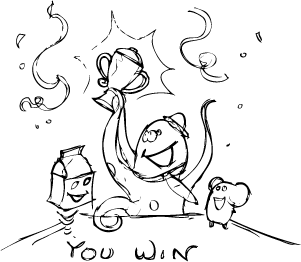
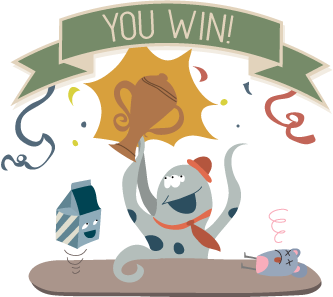
Implements results (closes #424 and #432)
This implements the final results illustrations and display logic for
both the author and player.

diff --git a/static/test/index.html b/static/test/index.html
@@ -959,18 +959,28 @@
               <div class="cardstories_envelope cardstories_envelope_3"></div>
               <div class="cardstories_envelope cardstories_envelope_4"></div>
               <div class="cardstories_envelope cardstories_envelope_5"></div>
-              <div class="cardstories_results">
-                <img class="cardstories_won" src="../css/images/author_won.png" alt="" />
+              <div class="cardstories_results author">
+                <img class="cardstories_won_1" src="../css/images/author_won.png" alt="" />
                 <img class="cardstories_lost_1" src="../css/images/author_lost_1.png" alt="" />
                 <img class="cardstories_lost_2" src="../css/images/author_lost_2.png" alt="" />
-                <p class="cardstories_won">You confused some people but not everyone.</p>
-                <p class="cardstories_lost_1">You created a story that was <font style="font-weight:bold">too easy</font> to guess.  Everyone discovered your card.</p>
-                <p class="cardstories_lost_2">You created a story that was <font style="font-weight:bold">too hard</font> to guess.  Nobody discovered your card.</p>
+                <p class="cardstories_won_1">You confused some people but not everyone.</p>
+                <p class="cardstories_lost_1">You created a story that was <font style="font-weight:bold">too easy</font> to guess. <font style="font-weight:bold">Everyone discovered your card.</font></p>
+                <p class="cardstories_lost_2">You created a story that was <font style="font-weight:bold">too hard</font> to guess. <font style="font-weight:bold">Nobody discovered your card.</font></p>
                 <div class="cardstories_img_button cardstories_play_again">
-                  <img class="cardstories_btn_on" alt="" src="../css/images/invite_button_on.png" />
-                  <img class="cardstories_btn_over" alt="" src="../css/images/invite_button_on.png" />
+                  <img class="cardstories_btn_on" alt="" src="../css/images/play_again_button_on.png" />
+                  <img class="cardstories_btn_over" alt="" src="../css/images/play_again_button_over.png" />
                   <a href="javascript://"><span>PLAY AGAIN!</span></a>
                 </div>
+              </div>
+              <div class="cardstories_results player">
+                <img class="cardstories_won_1" src="../css/images/player_won_1.png" alt="" />
+                <img class="cardstories_won_2" src="../css/images/player_won_2.png" alt="" />
+                <img class="cardstories_won_3" src="../css/images/player_won_2.png" alt="" />
+                <img class="cardstories_lost_1" src="../css/images/player_lost.png" alt="" />
+                <p class="cardstories_won_1"><font style="font-weight:bold">You found the Card Story!</font> The Game Master <font style="font-weight:bold">wins</font> too, he wrote a story which was neither too easy nor too hard to guess. He confused some people, but not everyone.</p>
+                <p class="cardstories_won_2"><font style="font-weight:bold">You found the Card Story!</font> The Game Master <font style="font-weight:bold">loses</font>, since he wrote a story which was <font style="font-weight:bold">too easy</font> to guess. <font style="font-weight:bold">Everyone discovered his card.</font></p>
+                <p class="cardstories_won_3"><font style="font-weight:bold">You didn't find the Card Story,</font> but the Game Master <font style="font-weight:bold">loses</font> since he wrote a story which was <font style="font-weight:bold">too hard</font> to guess. <font style="font-weight:bold">Nobody discovered his card.</font></p>
+                <p class="cardstories_lost_1">You didn’t find the Card Story. The Game Master wins, since he wrote a story that was <font style="font-weight:bold">neither too easy nor too hard</font> to guess. He confused <font style="font-weight:bold">some people but not everyone.</font></p>
               </div>
               <div class="cardstories_sentence_box">
                 <div class="cardstories_sentence_bg_box">

diff --git a/static/index.html b/static/index.html
@@ -891,18 +891,28 @@
             <div class="cardstories_envelope cardstories_envelope_3"></div>
             <div class="cardstories_envelope cardstories_envelope_4"></div>
             <div class="cardstories_envelope cardstories_envelope_5"></div>
-            <div class="cardstories_results">
-              <img class="cardstories_won" src="css/images/author_won.png" alt="" />
+            <div class="cardstories_results author">
+              <img class="cardstories_won_1" src="css/images/author_won.png" alt="" />
               <img class="cardstories_lost_1" src="css/images/author_lost_1.png" alt="" />
               <img class="cardstories_lost_2" src="css/images/author_lost_2.png" alt="" />
-              <p class="cardstories_won">You confused some people but not everyone.</p>
-              <p class="cardstories_lost_1">You created a story that was <font style="font-weight:bold">too easy</font> to guess.  Everyone discovered your card.</p>
-              <p class="cardstories_lost_2">You created a story that was <font style="font-weight:bold">too hard</font> to guess.  Nobody discovered your card.</p>
+              <p class="cardstories_won_1">You confused some people but not everyone.</p>
+              <p class="cardstories_lost_1">You created a story that was <font style="font-weight:bold">too easy</font> to guess. <font style="font-weight:bold">Everyone discovered your card.</font></p>
+              <p class="cardstories_lost_2">You created a story that was <font style="font-weight:bold">too hard</font> to guess. <font style="font-weight:bold">Nobody discovered your card.</font></p>
               <div class="cardstories_img_button cardstories_play_again">
-                <img class="cardstories_btn_on" alt="" src="css/images/invite_button_on.png" />
-                <img class="cardstories_btn_over" alt="" src="css/images/invite_button_on.png" />
+                <img class="cardstories_btn_on" alt="" src="css/images/play_again_button_on.png" />
+                <img class="cardstories_btn_over" alt="" src="css/images/play_again_button_over.png" />
                 <a href="javascript://"><span>PLAY AGAIN!</span></a>
               </div>
+            </div>
+            <div class="cardstories_results player">
+              <img class="cardstories_won_1" src="css/images/player_won_1.png" alt="" />
+              <img class="cardstories_won_2" src="css/images/player_won_2.png" alt="" />
+              <img class="cardstories_won_3" src="css/images/player_won_2.png" alt="" />
+              <img class="cardstories_lost_1" src="css/images/player_lost.png" alt="" />
+              <p class="cardstories_won_1"><font style="font-weight:bold">You found the Card Story!</font> The Game Master <font style="font-weight:bold">wins</font> too, he wrote a story which was neither too easy nor too hard to guess. He confused some people, but not everyone.</p>
+              <p class="cardstories_won_2"><font style="font-weight:bold">You found the Card Story!</font> The Game Master <font style="font-weight:bold">loses</font>, since he wrote a story which was <font style="font-weight:bold">too easy</font> to guess. <font style="font-weight:bold">Everyone discovered his card.</font></p>
+              <p class="cardstories_won_3"><font style="font-weight:bold">You didn't find the Card Story,</font> but the Game Master <font style="font-weight:bold">loses</font> since he wrote a story which was <font style="font-weight:bold">too hard</font> to guess. <font style="font-weight:bold">Nobody discovered his card.</font></p>
+              <p class="cardstories_lost_1">You didn’t find the Card Story. The Game Master wins, since he wrote a story that was <font style="font-weight:bold">neither too easy nor too hard</font> to guess. He confused <font style="font-weight:bold">some people but not everyone.</font></p>
             </div>
             <div class="cardstories_sentence_box">
               <div class="cardstories_sentence_bg_box">

diff --git a/static/test/test.js b/static/test/test.js
@@ -1916,10 +1916,10 @@ test("complete owner lost easy", 7, function() {
     notEqual(box.css('display'), 'none', 'box is visible');
     notEqual(box.find('p.cardstories_lost_1').css('display'), 'none', 'lost 1 text is visible');
     equal(box.find('p.cardstories_lost_2').css('display'), 'none', 'lost 2 text is hidden');
-    equal(box.find('p.cardstories_won').css('display'), 'none', 'won text is hidden');
+    equal(box.find('p.cardstories_won_1').css('display'), 'none', 'won text is hidden');
     notEqual(box.find('img.cardstories_lost_1').css('display'), 'none', 'lost 1 img is visible');
     equal(box.find('img.cardstories_lost_2').css('display'), 'none', 'lost 2 img is hidden');
-    equal(box.find('img.cardstories_won').css('display'), 'none', 'won img is hidden');
+    equal(box.find('img.cardstories_won_1').css('display'), 'none', 'won img is hidden');
 });
 
 test("complete owner lost hard", 7, function() {
@@ -1943,10 +1943,10 @@ test("complete owner lost hard", 7, function() {
     notEqual(box.css('display'), 'none', 'box is visible');
     equal(box.find('p.cardstories_lost_1').css('display'), 'none', 'lost 1 text is hidden');
     notEqual(box.find('p.cardstories_lost_2').css('display'), 'none', 'lost 2 text is visible');
-    equal(box.find('p.cardstories_won').css('display'), 'none', 'won text is hidden');
+    equal(box.find('p.cardstories_won_1').css('display'), 'none', 'won text is hidden');
     equal(box.find('img.cardstories_lost_1').css('display'), 'none', 'lost 1 img is hidden');
     notEqual(box.find('img.cardstories_lost_2').css('display'), 'none', 'lost 2 img is visible');
-    equal(box.find('img.cardstories_won').css('display'), 'none', 'won img is hidden');
+    equal(box.find('img.cardstories_won_1').css('display'), 'none', 'won img is hidden');
 });
 
 test("complete owner won", 7, function() {
@@ -1976,7 +1976,7 @@ test("complete owner won", 7, function() {
     notEqual(box.find('img.cardstories_won').css('display'), 'none', 'won img is visible');
 });
 
-test("complete", 24, function() {
+test("complete", 28, function() {
     var root = $('#qunit-fixture .cardstories');
     var element = $('.cardstories_complete', root);
     var owner_id = 'Owner';
@@ -2020,6 +2020,10 @@ test("complete", 24, function() {
     ok($('.cardstories_votes_4', element).children().length == 0, 'no votes for seat 4');
     ok($('.cardstories_votes_5', element).children().length == 0, 'no votes for seat 5');
     ok($('.cardstories_votes_win', element).children().length == 1, '1 winning votes');
+    equal($('.cardstories_results.author', element).css('display'), 'block', 'author results is visible');
+    equal($('.cardstories_results img.cardstories_won_1', element).css('display'), 'inline', 'won image is visible');
+    equal($('.cardstories_results img.cardstories_lost_1', element).css('display'), 'none', 'lost image 1 is hidden');
+    equal($('.cardstories_results img.cardstories_lost_2', element).css('display'), 'none', 'lost image 2 is hidden');
 });
 
 test("play_again_finish_state", 4, function() {
@@ -2030,7 +2034,7 @@ test("play_again_finish_state", 4, function() {
         'state': 'fake_state',
         'winner_card': 15,
         'board': [],
-        'players': []
+        'players': [['Owner', null, 'y', 30, []]]
     };
     var root = $('#qunit-fixture .cardstories');
     var element = $('.cardstories_invitation .cardstories_owner', root);

diff --git a/static/js/jquery.cardstories.js b/static/js/jquery.cardstories.js
@@ -3267,35 +3267,52 @@
         },
 
         complete_display_results: function(player_id, game, element, cb) {
-            // Am I a winner?
-            var winner = false;
-            for (var i=0; i < game.players.length; i++) {
-                if (game.players[i][0] == player_id && game.players[i][2] == 'y') {
-                    winner = true;
+            // Did the owner lose?
+            var owner_lost = true;
+            if (game.players[0][2] == 'y') {
+                owner_lost = false;
+            }
+
+            // Determine why the owner lost.  If nobody voted on the
+            // correct card, it was too hard.  Otherwise, it was too
+            // easy.
+            var too_hard = true;
+            if (owner_lost) {
+                for (var i=0; i < game.players.length; i++) {
+                    if (game.winner_card == game.players[i][1]) {
+                        too_hard = false;
+                        break;
+                    }
                 }
             }
 
-            var box = $('.cardstories_results', element);
+            var box;
             if (game.owner) {
-                if (winner) {
-                    $('.cardstories_won', box).show();
+                box = $('.cardstories_results.author', element);
+                if (!owner_lost) {
+                    $('.cardstories_won_1', box).show();
+                } else if (!too_hard) {
+                    $('.cardstories_lost_1', box).show();
                 } else {
-                    // Determine why the owner lost.  If nobody voted on the
-                    // correct card, it was too hard.  Otherwise, it was too
-                    // easy.
-                    var too_hard = true;
-                    for (var i=0; i < game.players.length; i++) {
-                        if (game.winner_card == game.players[i][1]) {
-                            too_hard = false;
-                            break;
-                        }
+                    $('.cardstories_lost_2', box).show();
+                }
+            } else {
+                var player_lost = true;
+                for (var i=0; i < game.players.length; i++) {
+                    if (game.players[i][0] == player_id && game.players[i][2] == 'y') {
+                        player_lost = false;
                     }
+                }
 
-                    if (too_hard) {
-                        $('.cardstories_lost_2', box).show();
-                    } else {
-                        $('.cardstories_lost_1', box).show();
-                    }
+                box = $('.cardstories_results.player', element);
+                if (player_lost) {
+                    $('.cardstories_lost_1', box).show();
+                } else if (!owner_lost) {
+                    $('.cardstories_won_1', box).show();
+                } else if (!too_hard) {
+                    $('.cardstories_won_2', box).show();
+                } else {
+                    $('.cardstories_won_3', box).show();
                 }
             }
 

diff --git a/static/css/all.css b/static/css/all.css
@@ -2268,9 +2268,9 @@
 .cardstories .cardstories_complete .cardstories_results {
     display: none;
     position: absolute;
-    width: 400px;
-    left: 187px;
-    bottom: 225px;
+    width: 436px;
+    left: 169px;
+    bottom: 215px;
     font-size: 10px;
     text-align: center;
 }
@@ -2281,15 +2281,15 @@
 
 .cardstories .cardstories_complete .cardstories_results > p {
     display: none;
-    width: 22.5em;
-    margin: 0.6em auto;
+    width: 24em;
+    margin: 0.25em auto;
     font-size: 1.2em; 
     font-family: "Helvetica";
 }
 
-.cardstories .cardstories_complete .cardstories_results p.cardstories_lost_1,
-.cardstories .cardstories_complete .cardstories_results p.cardstories_lost_2 {
-    color: red;
+.cardstories .cardstories_complete .cardstories_results .cardstories_lost_1,
+.cardstories .cardstories_complete .cardstories_results .cardstories_lost_2 {
+    color: #D8280F;
 }
 
 .cardstories .cardstories_complete .cardstories_results .cardstories_play_again {
@@ -2297,9 +2297,13 @@
     margin: 0 auto;
     font-size: 1.6em; 
     width: 7em;
-    height: 2.1em;
+    height: 1.8em;
     color: white;
     font-family: "Licon";
+}
+
+.cardstories .cardstories_complete .cardstories_results .cardstories_play_again a > span {
+    top: 0.36em !important;
 }
 
 /* state complete, owner point of view */

diff --git a/static/test/skin.js b/static/test/skin.js
@@ -276,12 +276,12 @@
         'ready': true,
         'sentence': 'the game sentence',
         'board': [30,31,32,33],
-        'self': [31, 32, [1,2,3,4,5,31]],
+        'self': [31, 30, [1,2,3,4,5,31]],
         'winner_card': 30,
-        'players': [['Owner', null, 'y', 30, []],
-                     ['Player 1', 32, 'n', 31, []],
+        'players': [['Owner', null, 'n', 30, []],
+                     ['Player 1', 30, 'y', 31, []],
                      ['Player 2', 30, 'y', 32, []],
-                     ['Player 4', 33, 'n', 34, []]]
+                     ['Player 4', 30, 'y', 34, []]]
       };
       $.cardstories.complete_complete('Player 1', game, root);
     } else if(skin == 'complete_owner') {
